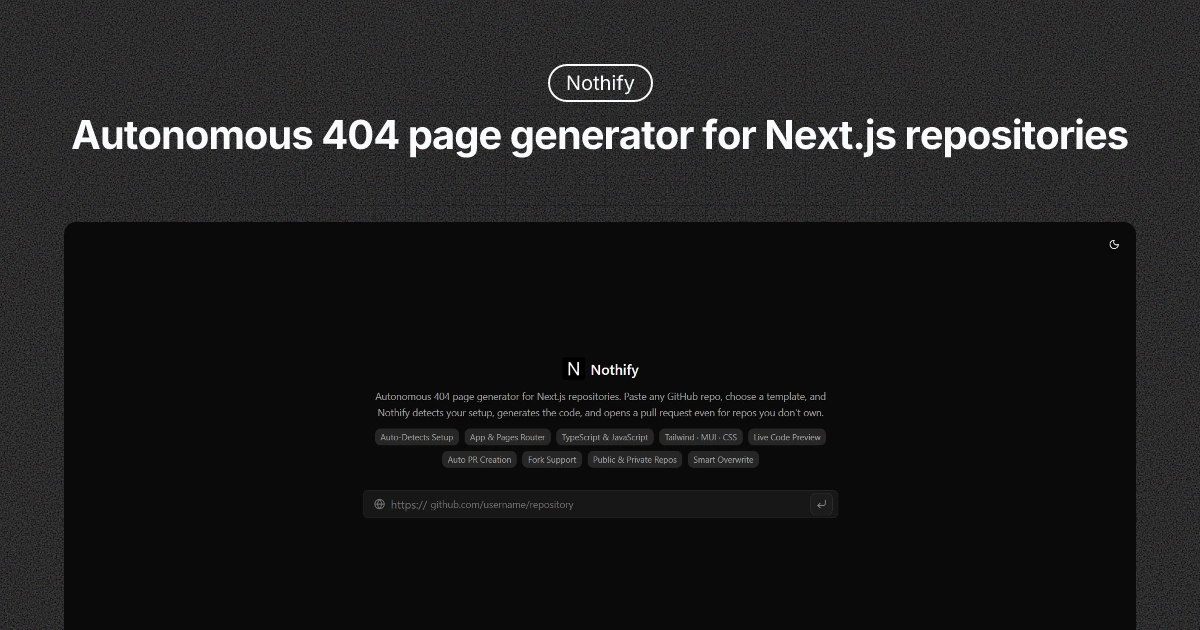
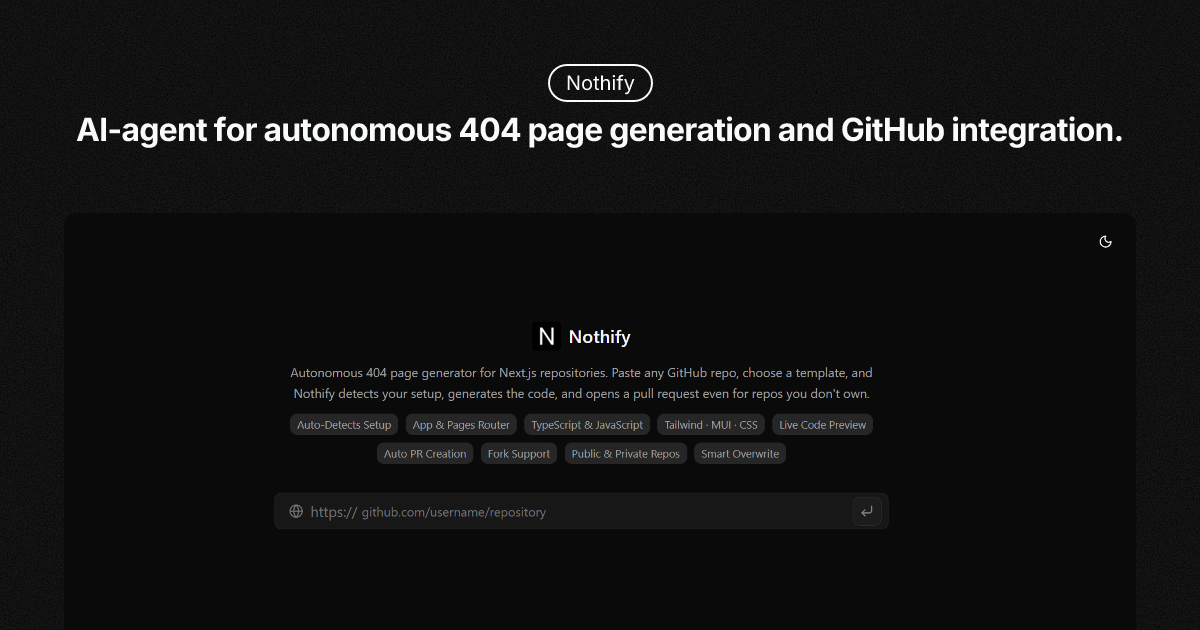
chore(project): remove old, add new ones

diff --git a/app/components/about/ProjectShowcase.jsx b/app/components/about/ProjectShowcase.jsx
@@ -1,120 +1,68 @@
 "use client";
 
-import React, { useState, useEffect } from "react";
+import { useState, useEffect } from "react";
 import Image from "next/image";
 import Link from "next/link";
-import { LuExternalLink, LuCode } from "react-icons/lu";
+import { LuArrowUpRight } from "react-icons/lu";
 import projects from "@/app/content/projects";
 
-const ProjectShowcase = () => {
+export default function ProjectShowcase() {
   const [currentIndex, setCurrentIndex] = useState(0);
-  const [isAutoplay, setIsAutoplay] = useState(true);
-  const [isTransitioning, setIsTransitioning] = useState(false);
+  const project = projects[currentIndex];
 
   useEffect(() => {
-    if (!isAutoplay) return;
-
-    const timer = setInterval(() => {
-      setCurrentIndex((prev) => (prev + 1) % (projects.length + 1));
-    }, 4000);
-
+    const timer = setInterval(
+      () => setCurrentIndex((i) => (i + 1) % projects.length),
+      4000,
+    );
     return () => clearInterval(timer);
-  }, [isAutoplay]);
-
-  const pauseAutoplay = () => {
-    setIsAutoplay(false);
-    setTimeout(() => setIsAutoplay(true), 6000);
-  };
-
-  const changeSlide = (newIndex) => {
-    setIsTransitioning(true);
-    setTimeout(() => {
-      setCurrentIndex(newIndex);
-      setIsTransitioning(false);
-    }, 150);
-  };
-
-  const goToSlide = (index) => {
-    changeSlide(index);
-    pauseAutoplay();
-  };
-
-  const isLastSlide = currentIndex === projects.length;
+  }, []);
 
   return (
-    <div className="relative max-w-6xl mx-auto mt-8">
-      <div className="relative h-75 sm:h-112.5 overflow-hidden border border-white/20 rounded-3xl bg-black">
-        <div
-          className="absolute inset-0 transition-opacity duration-300"
-          style={{ opacity: isTransitioning ? 0 : 1 }}
-        >
-          {!isLastSlide ? (
-            <>
-              <Image
-                src={projects[currentIndex].image}
-                alt={projects[currentIndex].title}
-                fill
-                className="object-cover"
-                priority
-              />
-              <div className="absolute inset-0 bg-linear-to-b from-black/20 via-black/40 to-black/70" />
-              <div className="absolute bottom-0 left-0 right-0 p-4 sm:p-6 text-white">
-                <h2 className="text-xl sm:text-2xl font-medium mb-3 tracking-tight">
-                  {projects[currentIndex].title}
-                </h2>
-                <p className="hidden sm:flex text-sm sm:text-base opacity-90 mb-4 max-w-sm lg:max-w-full">
-                  {projects[currentIndex].description}
-                </p>
-                <Link
-                  href={
-                    projects[currentIndex].url ||
-                    projects[currentIndex].githubLink
-                  }
-                  target="_blank"
-                  rel="noopener noreferrer"
-                  className="inline-flex items-center gap-2 bg-white/10 backdrop-blur-sm border border-white/20 text-white px-3 py-1.5 rounded-lg hover:bg-white/20 transition"
-                >
-                  <span className="text-sm">Open Project</span>
-                  <LuExternalLink size={14} />
-                </Link>
-              </div>
-            </>
-          ) : (
-            <div className="bg-[#F4F0E6] h-full flex flex-col justify-center items-center text-center p-6 sm:p-8">
-              <h2 className="text-2xl sm:text-3xl font-medium mb-4 text-slate-800 tracking-tight">
-                Projects Overview
-              </h2>
-              <p className="text-slate-600 mb-4 max-w-sm leading-relaxed">
-                A collection of projects built around developer experience, UI,
-                and open source.
-              </p>
-              <Link
-                href="/projects"
-                className="inline-flex items-center gap-2 bg-[#FF3B00] text-white px-4 py-2 rounded-xl transition hover:bg-[#E63500]"
-              >
-                <LuCode size={18} />
-                <span>View All Projects</span>
-              </Link>
-            </div>
-          )}
+    <section className="max-w-6xl mx-auto mt-8">
+      <div className="relative rounded-3xl bg-[#0f0f0f] border border-white/10 overflow-hidden">
+        <div className="grid grid-cols-1 lg:grid-cols-12 gap-6 lg:gap-10 p-4 md:p-6">
+          <div className="lg:col-span-4 flex flex-col justify-center gap-3">
+            <h2 className="text-lg sm:text-xl md:text-2xl font-medium text-white tracking-tight transition-all duration-500">
+              {project.title}
+            </h2>
+
+            <p className="text-xs sm:text-sm leading-relaxed max-w-md transition-all duration-500">
+              {project.description}
+            </p>
+
+            <Link
+              href={project.url || project.githubLink}
+              target="_blank"
+              rel="noopener noreferrer"
+              className="hidden sm:inline-flex items-center gap-1.5 text-sm text-white hover:opacity-80 transition-opacity w-fit"
+            >
+              Open Project
+              <LuArrowUpRight size={15} />
+            </Link>
+          </div>
+
+          <div className="lg:col-span-8 relative w-full">
+            <Image
+              src={project.image}
+              alt={project.title}
+              width={800}
+              height={500}
+              priority
+              className="object-contain rounded-2xl w-full h-auto"
+            />
+          </div>
+
+          <Link
+            href={project.url || project.githubLink}
+            target="_blank"
+            rel="noopener noreferrer"
+            className="absolute top-3 right-3 text-white/80 hover:text-white transition lg:hidden"
+          >
+            <LuArrowUpRight size={18} />
+          </Link>
         </div>
       </div>
-
-      <div className="flex justify-center gap-2 mt-6">
-        {[...projects, { title: "Explore" }].map((_, i) => (
-          <button
-            key={i}
-            onClick={() => goToSlide(i)}
-            className={`w-2 h-2 rounded-full transition-all duration-300 ${
-              i === currentIndex
-                ? "bg-white w-8"
-                : "bg-white/20 hover:bg-white/40"
-            }`}
-          />
-        ))}
-      </div>
-    </div>
+    </section>
   );
-};
-
-export default ProjectShowcase;
+}

diff --git a/app/content/projects.jsx b/app/content/projects.jsx
@@ -4,19 +4,28 @@ import ErrExplain from "../resources/images/project/errexplain.webp";
 import Sendra from "../resources/images/project/sendra.webp";
 import Drawer from "../resources/images/project/drawer.webp";
 import Nothify from "../resources/images/project/nothify.webp";
+import Billow from "../resources/images/project/billow.webp";
 
 const projects = [
+  {
+    image: Billow,
+    title: "Billow",
+    description:
+      "Billow is a lightweight SaaS that helps Indian businesses generate GST-compliant sales invoices quickly and accurately, without relying on complex accounting software.",
+    url: "https://billow.abhivarde.in",
+  },
   {
     image: Nothify,
     title: "Nothify",
     description:
-      "Autonomous 404 page generator for Next.js. Paste a GitHub repo, detect routing & stack, preview instantly, and generate code or PRs automatically.",
+      "Nothify is an AI-powered automation agent that analyzes Next.js repositories, generates stack-aware 404 pages, and automatically opens GitHub pull requests with zero setup.",
     url: "https://nothify.abhivarde.in",
   },
   {
     image: Drawer,
     title: "Svelte Drawer",
-    description: "A drawer component for Svelte 5, inspired by Vaul.",
+    description:
+      "Svelte Drawer is a modern NPM package for Svelte 5 that provides an accessible, animated drawer component inspired by Vaul and built for smooth interactions.",
     githubLink: "https://github.com/AbhiVarde/svelte-drawer",
     url: "https://drawer.abhivarde.in",
   },
@@ -24,7 +33,7 @@ const projects = [
     image: Sendra,
     title: "Sendra",
     description:
-      "Monitors Appwrite Sites & Functions, sends instant failure alerts, and suggests AI-powered fixes - built with Appwrite, Resend, Vercel & Vercel AI SDK.",
+      "Sendra is a developer-focused monitoring tool that tracks Appwrite Sites and Functions, sends instant failure alerts, and suggests AI-powered fixes.",
     url: "https://sendra.vercel.app",
     githubLink: "https://github.com/AbhiVarde/sendra",
   },
@@ -32,7 +41,7 @@ const projects = [
     image: ErrExplain,
     title: "ErrExplain",
     description:
-      "Translate cryptic errors into plain English, built with Next.js, Vercel AI SDK, and Appwrite.",
+      "ErrExplain is a developer tool that converts cryptic runtime and build errors into clear, human-readable explanations for faster debugging.",
     url: "https://errexplain.appwrite.network/",
     githubLink: "https://github.com/AbhiVarde/ErrExplain",
   },
@@ -40,17 +49,9 @@ const projects = [
     image: IdeaTracker,
     title: "Idea Tracker",
     description:
-      "Manage and track side project ideas with React, built using the full Appwrite stack and Lingo.dev for multilingual support.",
+      "Idea Tracker is a productivity-focused SaaS that helps developers capture, organize, and manage side project ideas efficiently.",
     url: "https://idea-tracker-v2.appwrite.network/",
     githubLink: "https://github.com/AbhiVarde/Idea-tracker",
-  },
-  {
-    image: SyncUI,
-    title: "Sync UI",
-    description:
-      "A sleek UI library for Design Engineers, offering beautifully designed components and templates built with MUI and Motion (motion/react).",
-    githubLink: "https://github.com/AbhiVarde/syncui",
-    url: "https://syncui.design",
   },
 ];
 
